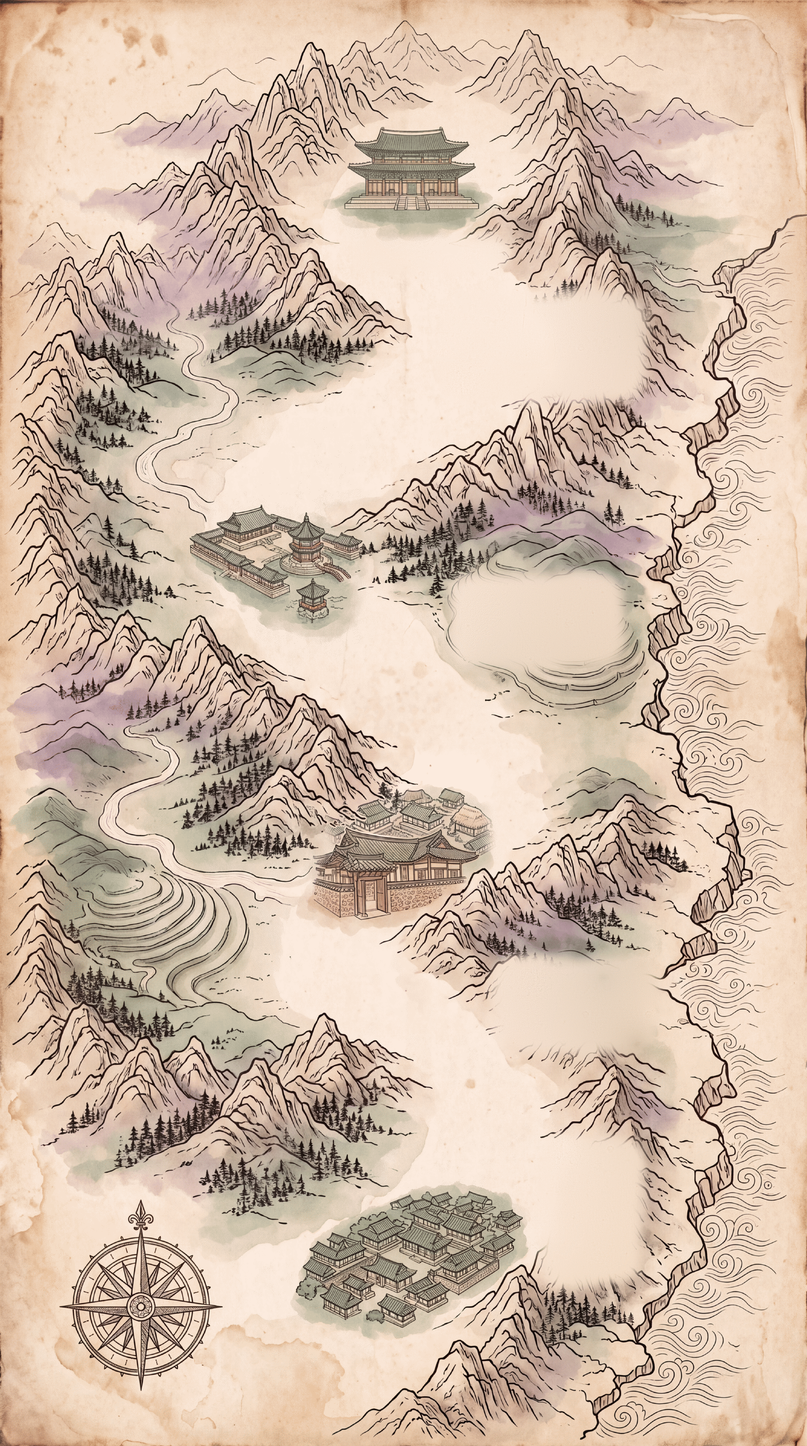
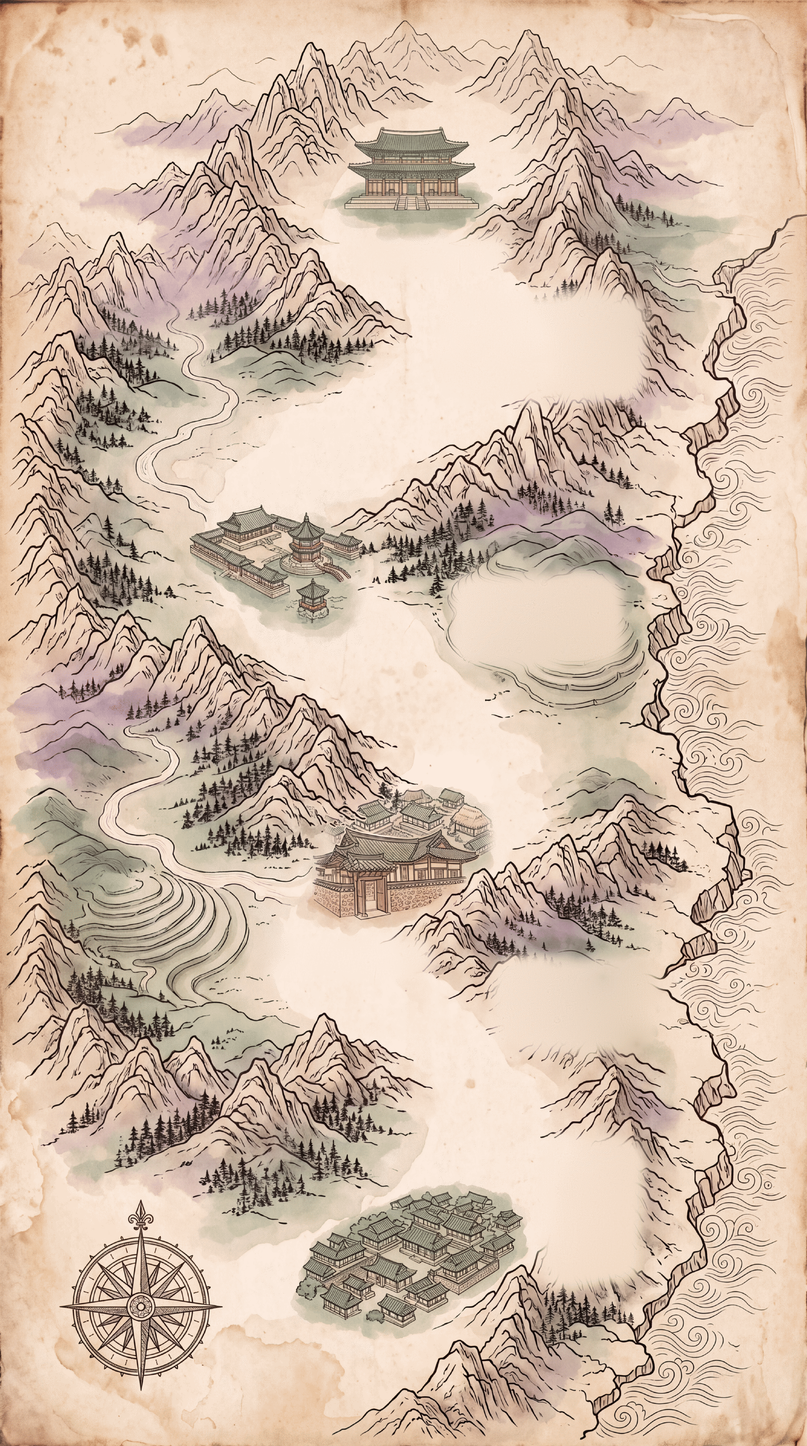
Namsangol's caption up toward the wall

diff --git a/tools/maproute.js b/tools/maproute.js
@@ -687,8 +687,13 @@ var BLOCK_X = [null, null, null, null];
    columns east and a row down to keep its left end off the footpath's
    verge; the owner's spot puts that end ~15 units from the prints, which he
    has seen and prefers. The ink under the override is measured like
-   any other candidate's, so mapnote still decides its clearing. */
-var CAP_XY = [[0.535, 0.178], null, null, null];
+   any other candidate's, so mapnote still decides its clearing.
+
+   STOP 3, 0.424,0.678 -> 0.424,0.664. The owner, 2026-08-27, on the same
+   screenshot round: "move namsangol village up a little bit, i feel
+   like it is a bit too far down" — the caption, up toward the walled
+   house's foot (its wall bottom is at ~0.65). */
+var CAP_XY = [[0.535, 0.178], null, [0.424, 0.664], null];
 
 var MEAN_W = 4.5;
 

diff --git a/js/journey.js b/js/journey.js
@@ -828,7 +828,7 @@
          14 had it. The copy is in `clear` below. */
       stops: [[0.340, 0.120, 0.396, 0.136, 0.535, 0.178],
               [0.493, 0.360, 0.410, 0.329, 0.410, 0.446],
-              [0.623, 0.601, 0.368, 0.632, 0.424, 0.678],
+              [0.623, 0.601, 0.368, 0.632, 0.424, 0.664],
               [0.374, 0.857, 0.326, 0.872, 0.438, 0.934]],
       /* the note's clearing per stop, from maproute --clear (MAP_CLEAR):
          `box` [x0, y0, x1, y1] is the widest clean rectangle, `rows`
